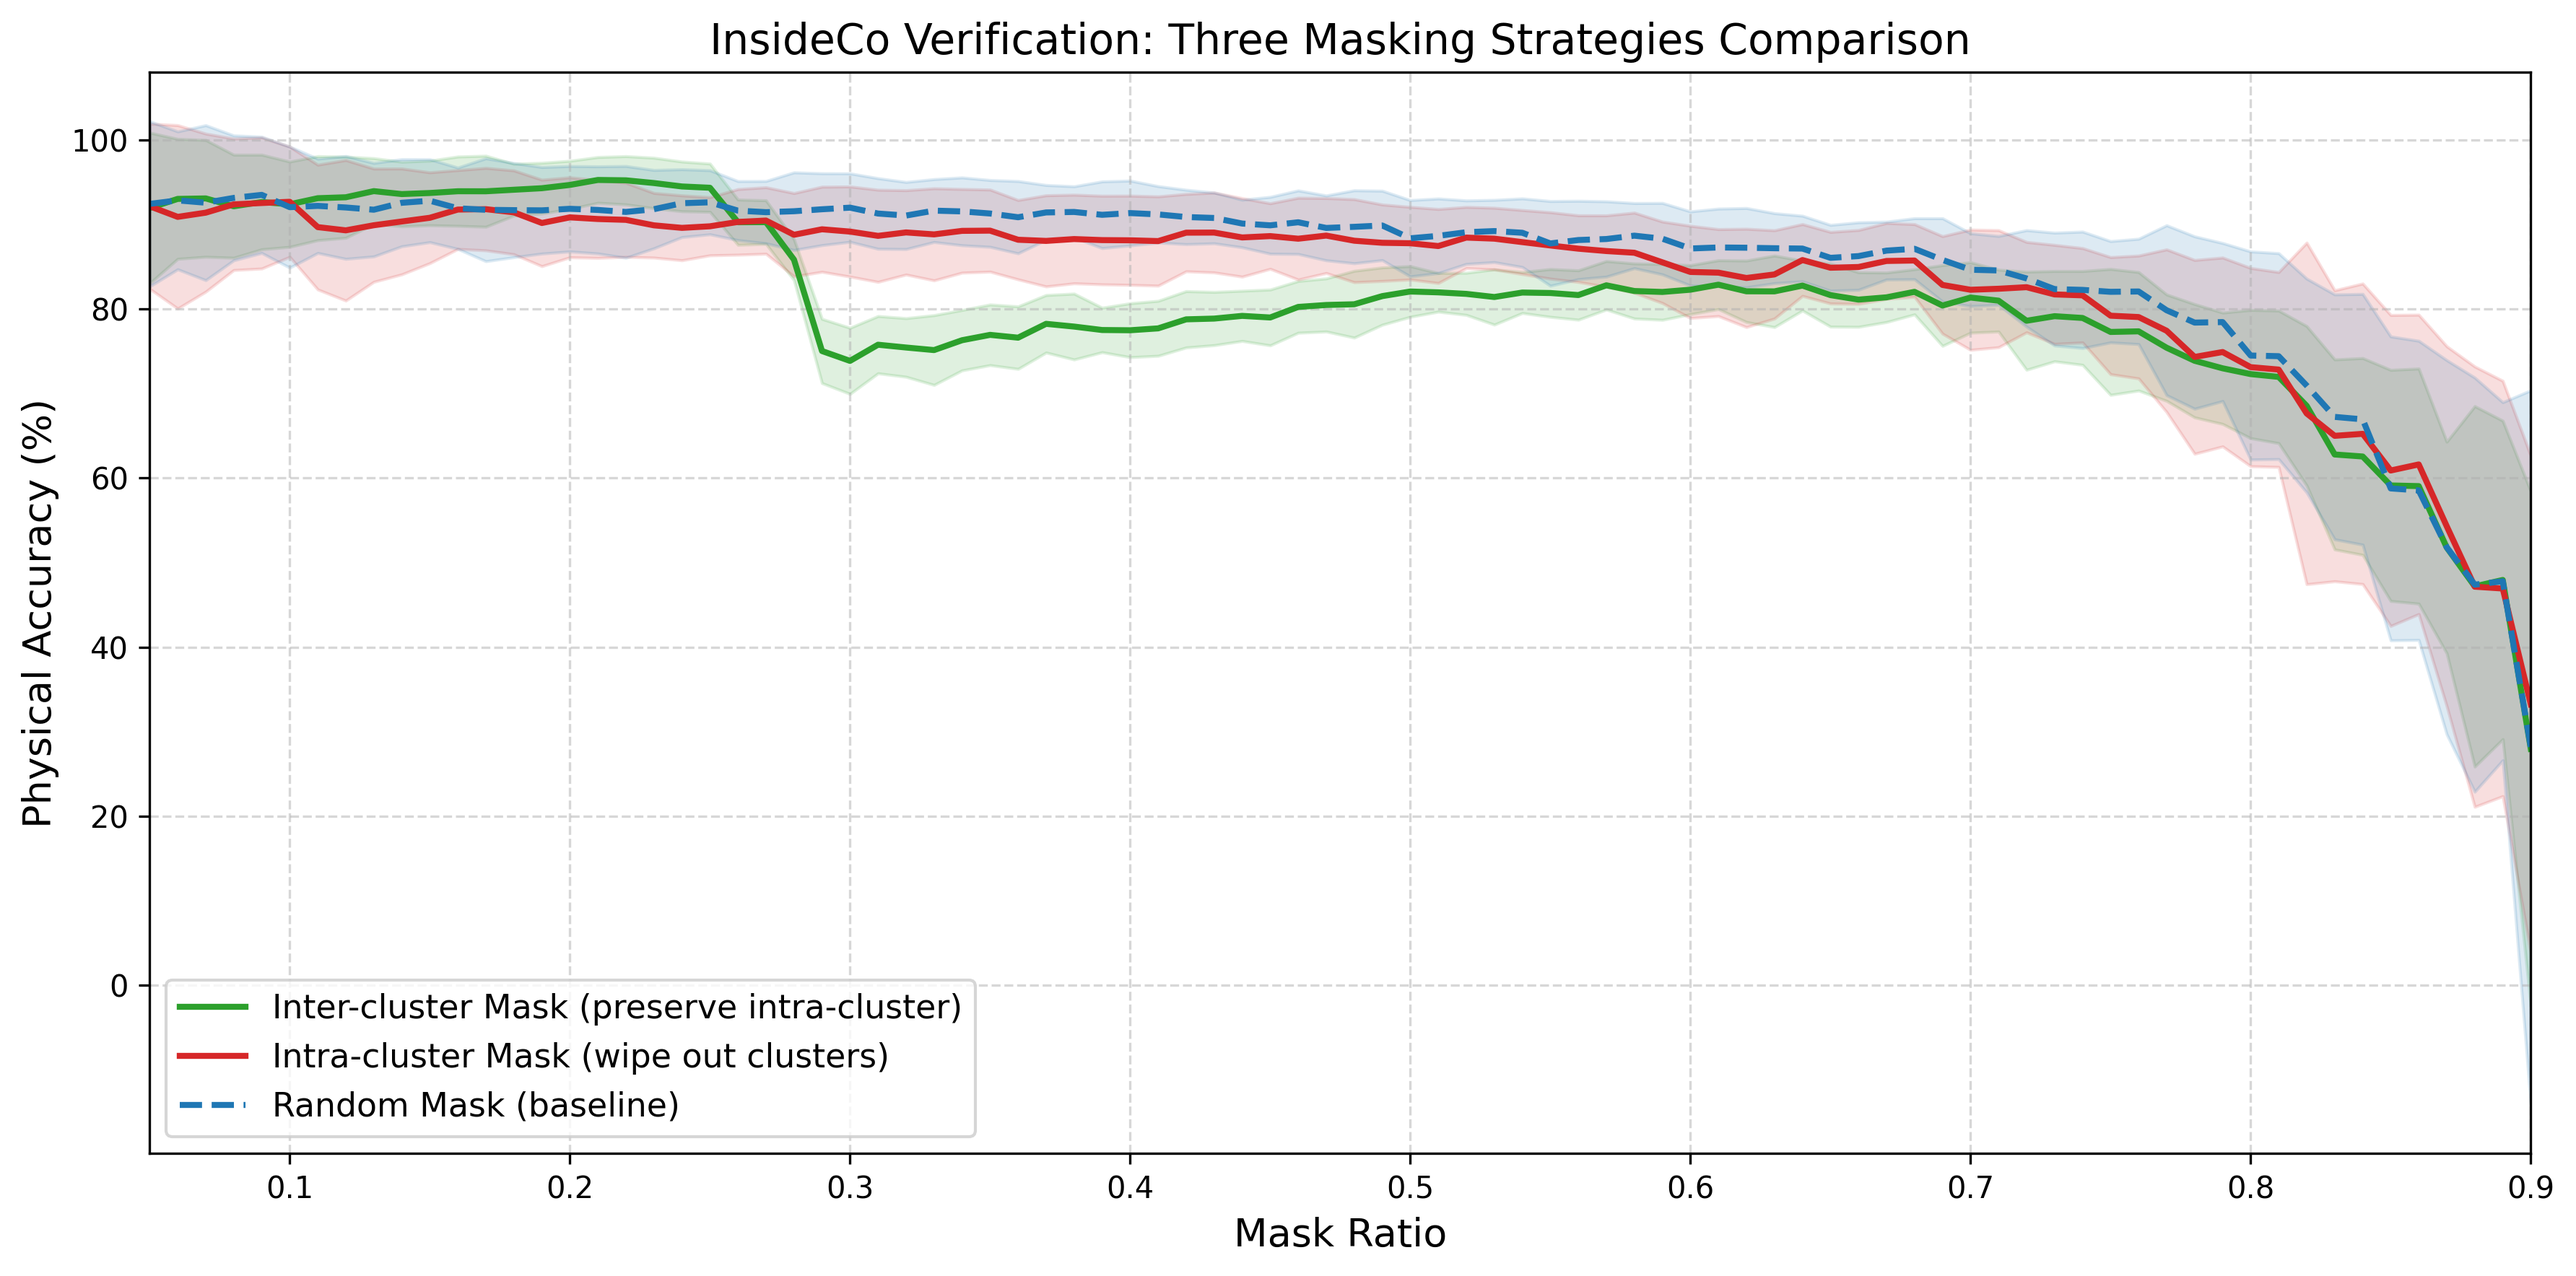
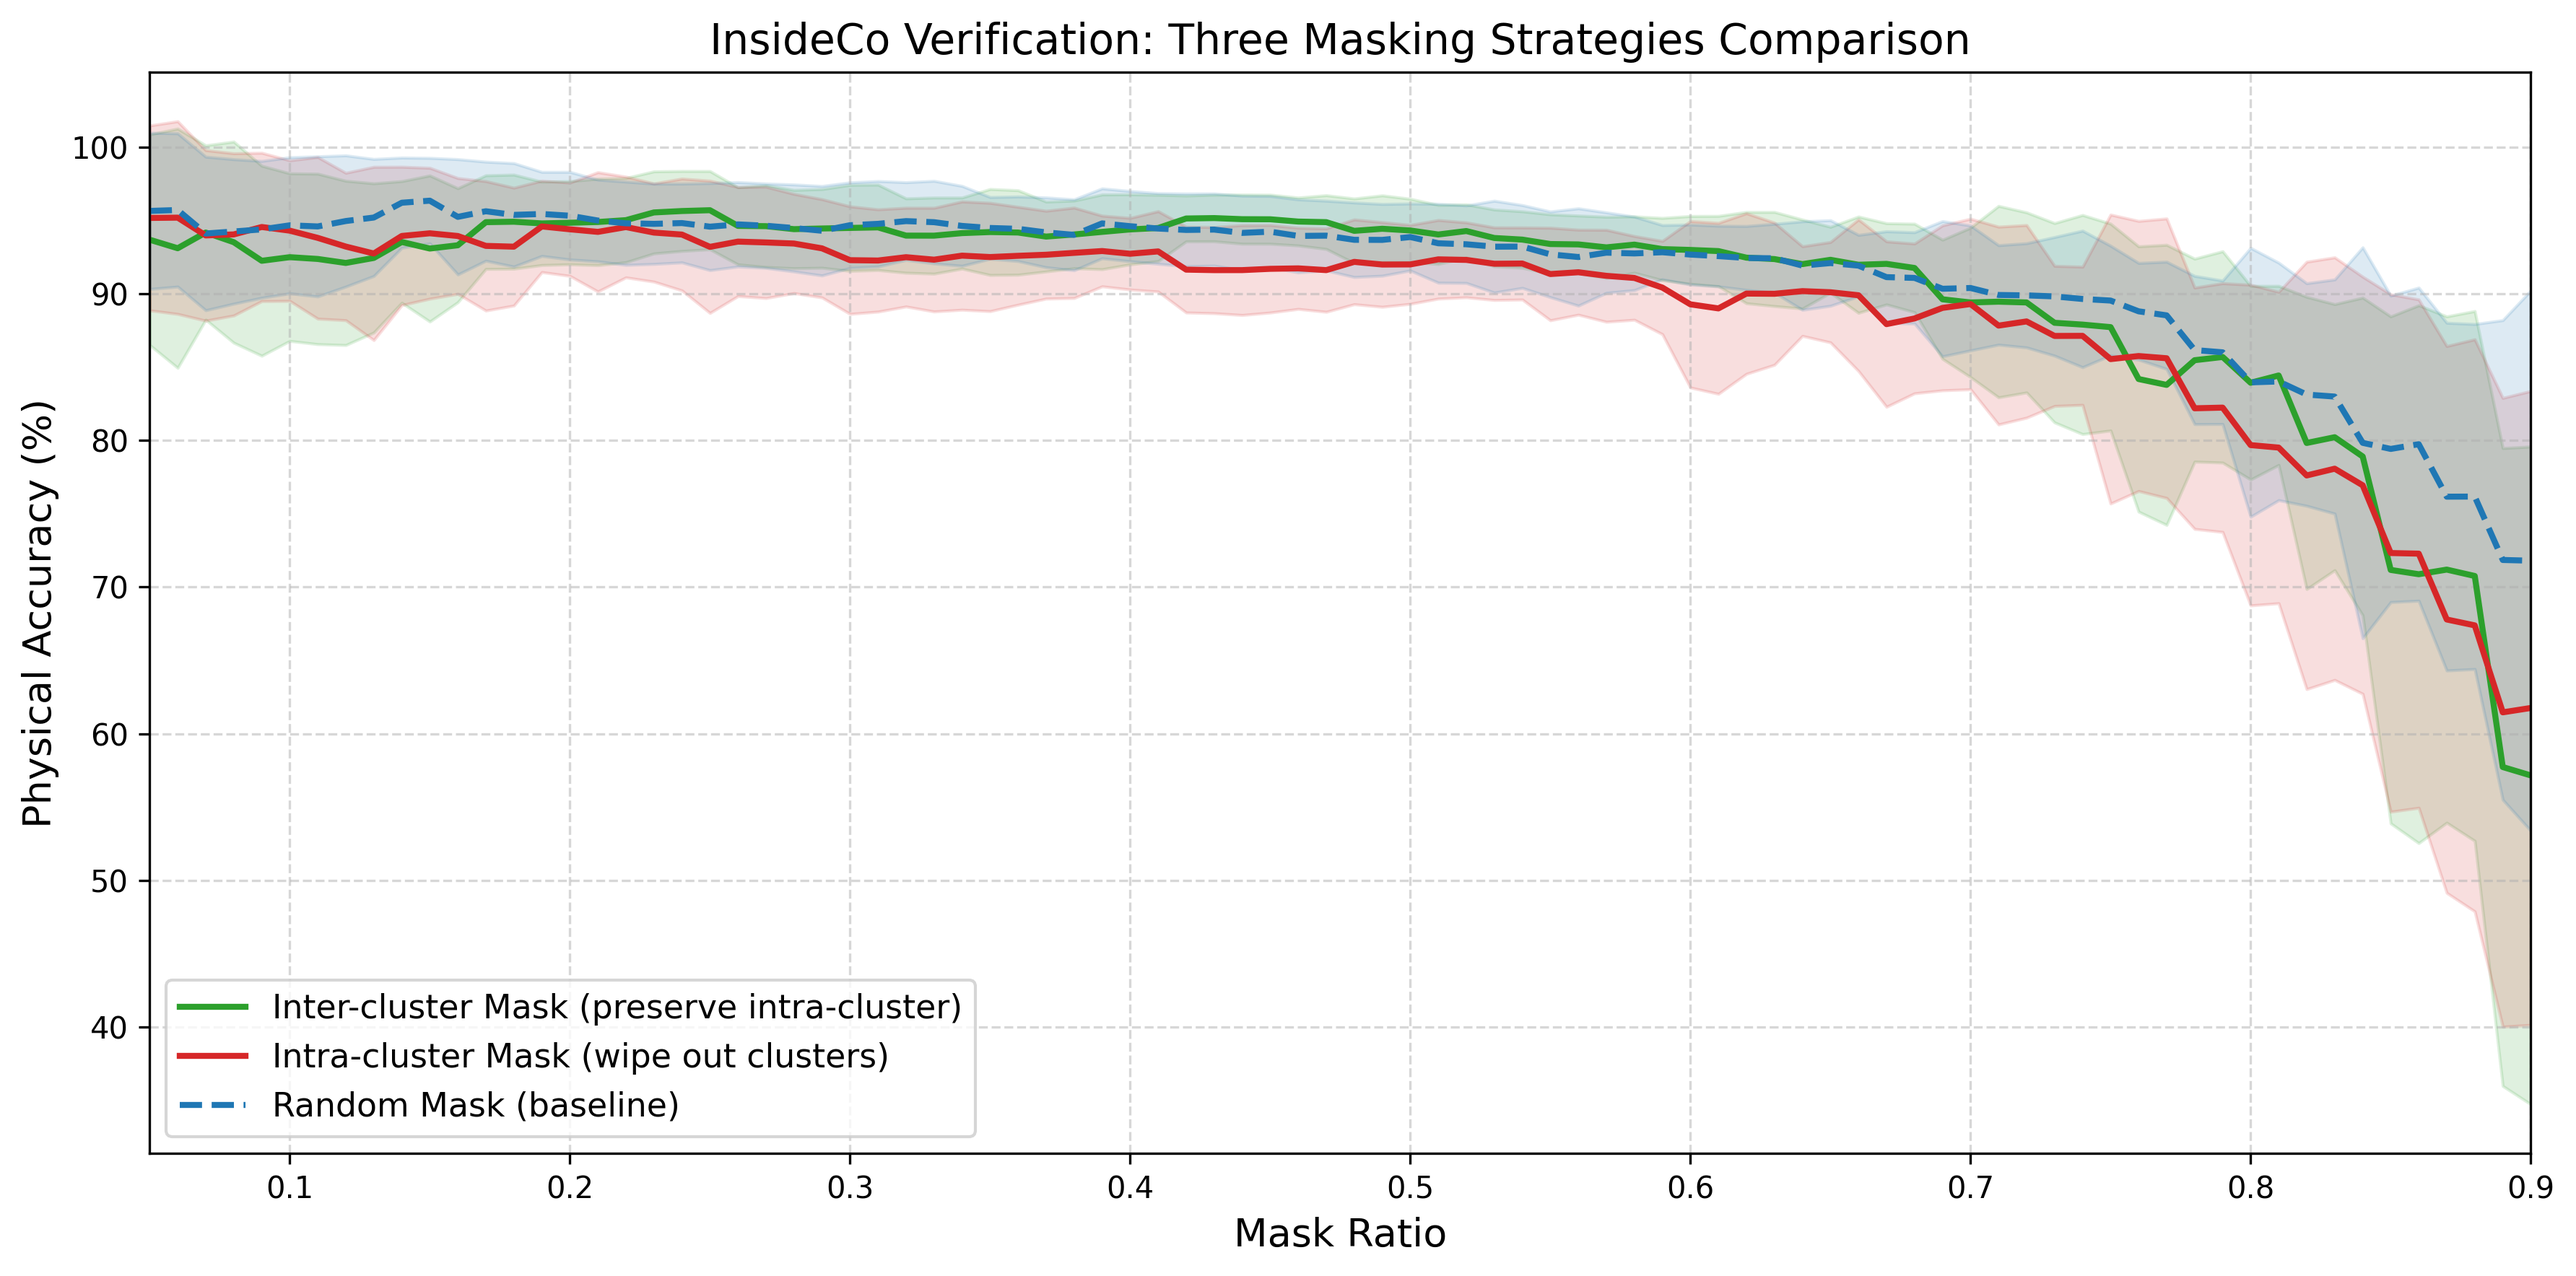
feat: implement intra-cluster vs inter-cluster support verification experiment

diff --git a/experiment/InsideCo_Exp1.py b/experiment/InsideCo_Exp1.py
@@ -1,6 +1,7 @@
 # -*- coding: utf-8 -*-
 """
 内部聚类验证实验：三种掩码策略对比
+变化掩码率，验证聚类内推断比
 
 实验设计：
     横坐标：mask_ratio ∈ [0.05, 0.95], step=0.01
@@ -165,11 +166,11 @@ def generate_intra_cluster_mask(num_masked, clusters_list, rng):
     return np.array(sorted(masked[:num_masked]))
 
 
-def generate_random_mask(num_masked, rng):
+def generate_random_mask(num_masked, real_sensors, rng):
     """
-    对照组 2：纯随机掩码。
+    对照组 2：纯随机掩码（仅在有簇的传感器中随机）。
     """
-    indices = rng.choice(NUM_SENSORS, size=num_masked, replace=False)
+    indices = rng.choice(real_sensors, size=num_masked, replace=False)
     return np.sort(indices)
 
 
@@ -182,18 +183,17 @@ def main():
     with open(CLUSTERS_PATH, 'r') as f:
         clusters_raw = json.load(f)
 
-    # 提取所有簇（包括孤立传感器，每个孤立传感器视为单独一个簇）
+    # 提取所有真实簇（大小 > 1 的簇）
     clusters_list = []
+    real_sensors = []
     for cname, cinfo in clusters_raw.items():
         sensors = cinfo["sensors"]
-        if cname == "Orphans":
-            # 每个孤立传感器单独成簇
-            for s in sensors:
-                clusters_list.append([s])
-        else:
+        if cname != "Orphans" and len(sensors) > 1:
             clusters_list.append(sensors)
+            real_sensors.extend(sensors)
     
-    print(f"[INFO] 聚类数量: {len(clusters_list)} (含孤立传感器单独成簇)")
+    num_real_sensors = len(real_sensors)
+    print(f"[INFO] 真实聚类数量 (size>1): {len(clusters_list)}，共包含传感器: {num_real_sensors} 个")
     for i, c in enumerate(clusters_list):
         print(f"  簇 {i}: {[f'S{s}' for s in c]}")
 
@@ -217,8 +217,8 @@ def main():
     print(f"       每个掩码率重复 {NUM_REPEATS} 次\n")
     
     for mr in tqdm(mask_ratios, desc="Mask Ratio Sweep"):
-        num_masked = max(1, int(round(mr * NUM_SENSORS)))
-        num_masked = min(num_masked, NUM_SENSORS - 1)  # 至少保留 1 个可见
+        num_masked = max(1, int(round(mr * num_real_sensors)))
+        num_masked = min(num_masked, num_real_sensors - 1)  # 至少保留 1 个可见
         
         num_visible = NUM_SENSORS - num_masked
         
@@ -234,7 +234,7 @@ def main():
             vis_inter = np.array([i for i in range(NUM_SENSORS) if i not in mask_inter])
             with torch.no_grad():
                 acc, mse = compute_accuracy(model, val_data, vis_inter, mask_inter, train_mean, train_std)
-            accs_inter.append(1-mse)
+            accs_inter.append(1-mse)  # 使用物理相对准确率
             mses_inter.append(mse)
             
             # ---- 对照组 1：簇内团灭掩码 ----
@@ -242,15 +242,15 @@ def main():
             vis_intra = np.array([i for i in range(NUM_SENSORS) if i not in mask_intra])
             with torch.no_grad():
                 acc, mse = compute_accuracy(model, val_data, vis_intra, mask_intra, train_mean, train_std)
-            accs_intra.append(1-mse)
+            accs_intra.append(1-mse)  # 使用物理相对准确率
             mses_intra.append(mse)
             
             # ---- 对照组 2：纯随机掩码 ----
-            mask_rand = generate_random_mask(num_masked, rng)
+            mask_rand = generate_random_mask(num_masked, real_sensors, rng)
             vis_rand = np.array([i for i in range(NUM_SENSORS) if i not in mask_rand])
             with torch.no_grad():
                 acc, mse = compute_accuracy(model, val_data, vis_rand, mask_rand, train_mean, train_std)
-            accs_random.append(1-mse)
+            accs_random.append(1-mse)  # 使用物理相对准确率
             mses_random.append(mse)
         
         results.append({

diff --git a/experiment/Intra_cluster_Support.py b/experiment/Intra_cluster_Support.py
@@ -2,9 +2,10 @@
 """
 簇内互助 vs 跨簇推断 — 控制变量隔离验证实验 (v2)
 
+固定掩码率，验证族内互相推断比外族推断正确率更高
+
 核心改进：
-    保持模型在合理掩码率(~0.4)下工作，仅对比"簇内成员是否可见"
-    对目标传感器重构精度的影响。
+    保持模型在合理掩码率(~0.4)下工作，仅对比"簇内成员是否可见"   对目标传感器重构精度的影响。
 
 实验设计：
     固定可见传感器总数 = NUM_VISIBLE（约 37 个，对应 mask_ratio≈0.4）。
